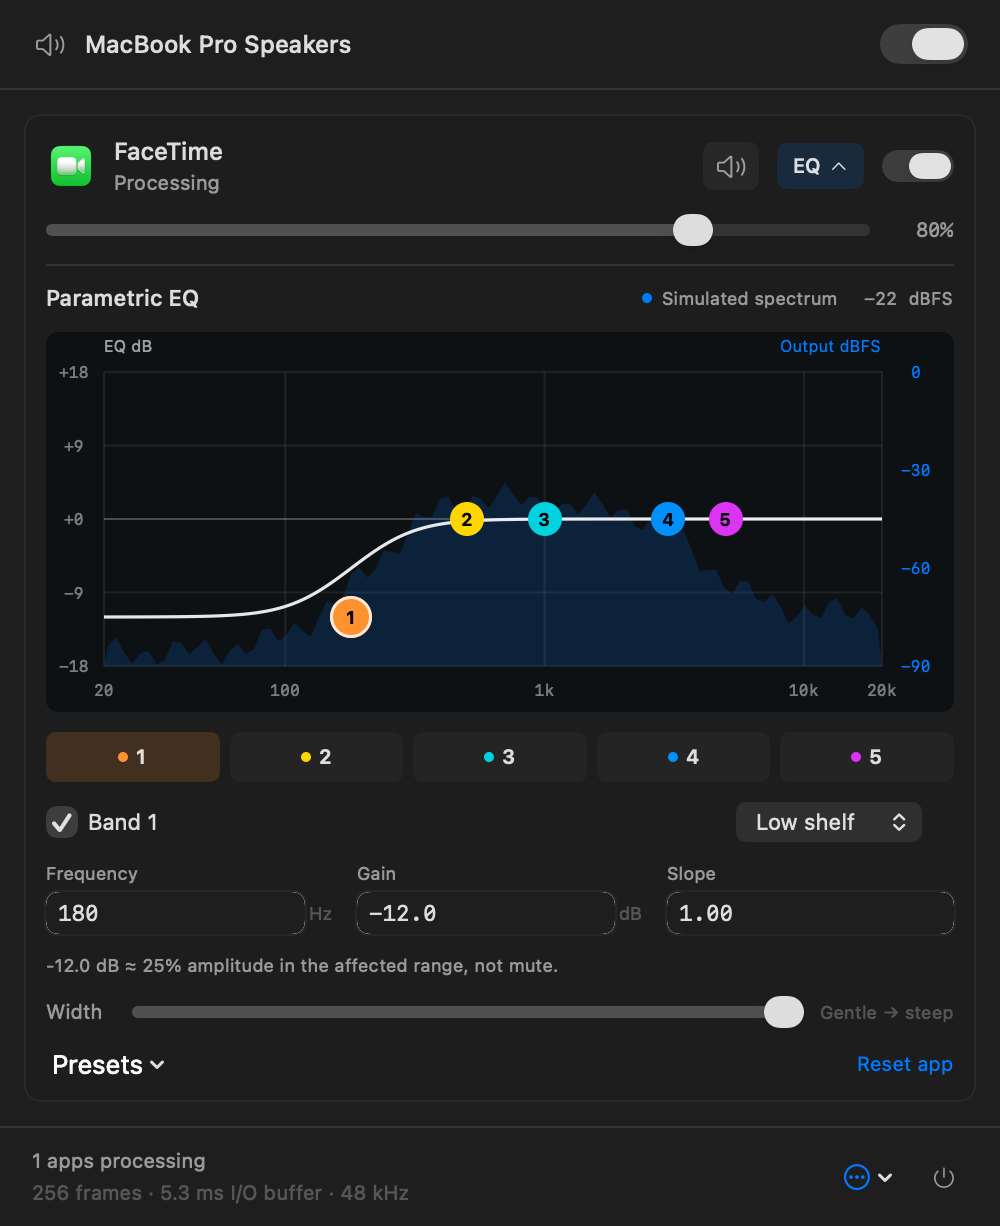
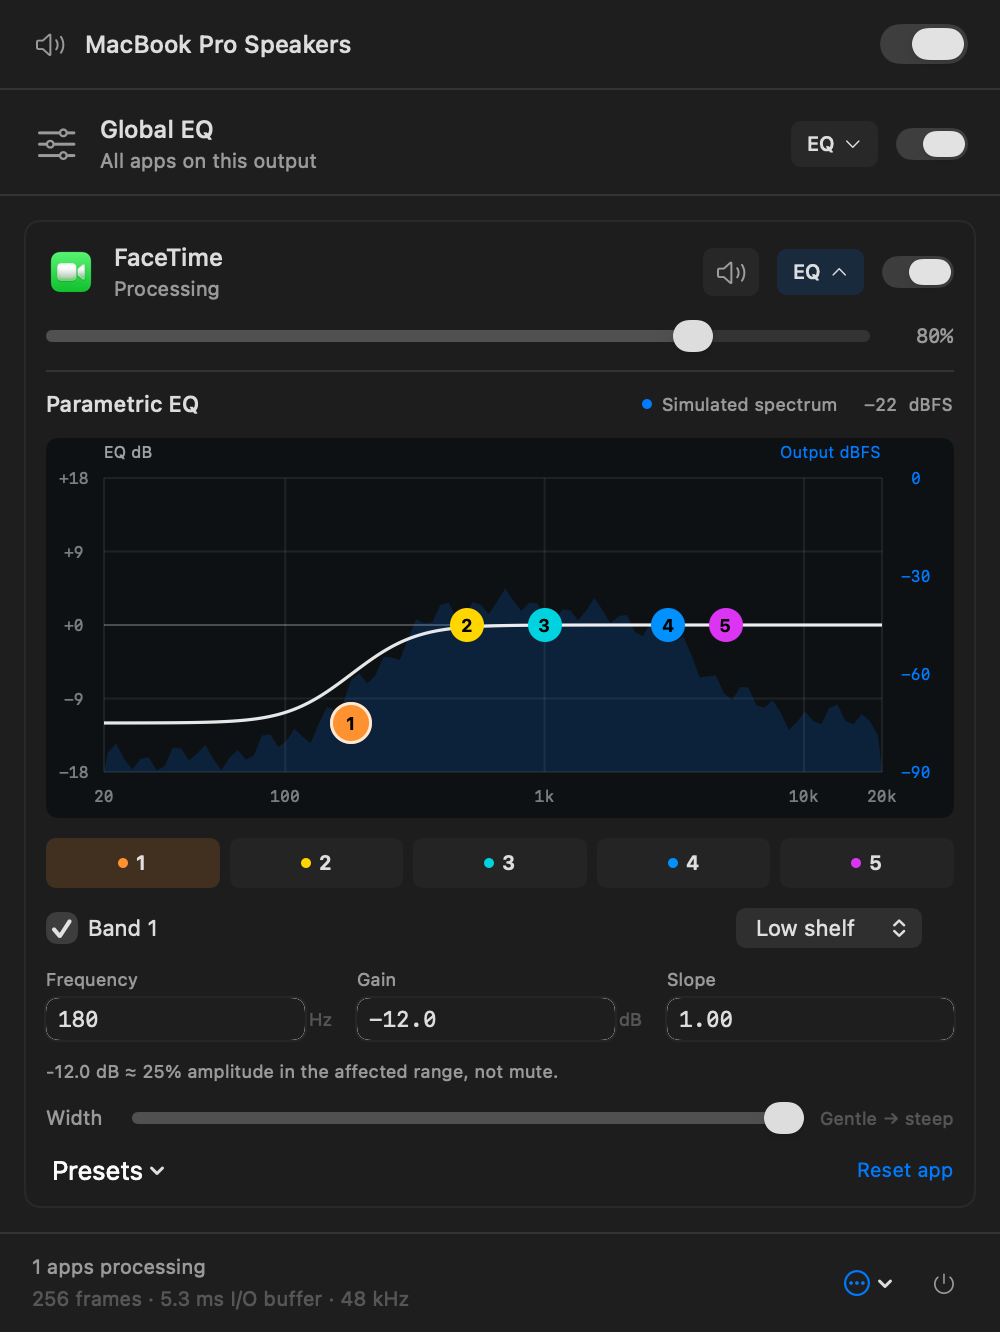
Keep global EQ controls visible and animate editor transitions

diff --git a/AppMixer/App/Sources/MixerView.swift b/AppMixer/App/Sources/MixerView.swift
@@ -5,6 +5,7 @@ import SwiftUI
 
 struct MixerView: View {
     @ObservedObject var model: MixerModel
+    @Environment(\.accessibilityReduceMotion) private var reduceMotion
     @State private var globalBand = 0
     @State private var measured: [String: CGFloat] = [:]
     private var isAppEQExpanded: Bool {
@@ -43,10 +44,8 @@ struct MixerView: View {
                     }.foregroundStyle(.orange).padding(12).frame(maxWidth: .infinity, alignment: .leading).background(
                         .orange.opacity(0.08))
                 }
-                if !isAppEQExpanded {
-                    globalSection
-                    Divider()
-                }
+                globalSection
+                Divider()
             }.trackHeight("header")
             ScrollView {
                 VStack(spacing: 8) {
@@ -96,6 +95,8 @@ struct MixerView: View {
             }.trackHeight("footer")
         }.frame(width: 500).fixedSize(horizontal: false, vertical: true).tint(.accentColor)
             .background(Color(nsColor: .windowBackgroundColor))
+            .animation(reduceMotion ? nil : .easeInOut(duration: 0.22), value: model.selectedEQ)
+            .animation(reduceMotion ? nil : .easeInOut(duration: 0.22), value: isAppEQExpanded)
             .onPreferenceChange(PanelHeights.self) { if measured != $0 { measured = $0 } }
     }
     private var globalSection: some View {
@@ -115,7 +116,8 @@ struct MixerView: View {
                 } label: {
                     HStack(spacing: 4) {
                         Text("EQ")
-                        Image(systemName: selected ? "chevron.up" : "chevron.down").font(.system(size: 8))
+                        Image(systemName: "chevron.down").font(.system(size: 8))
+                            .rotationEffect(.degrees(selected ? 180 : 0))
                     }.font(.system(size: 10, weight: .medium)).padding(.horizontal, 8).padding(.vertical, 5)
                         .background(
                             selected ? Color.accentColor.opacity(0.14) : Color.secondary.opacity(0.08),
@@ -131,15 +133,20 @@ struct MixerView: View {
                 ).toggleStyle(.switch).controlSize(.mini).labelsHidden()
                     .help("Bypass Global EQ while keeping each app's settings.")
             }.padding(.horizontal, 16).padding(.top, 12)
-            ParametricEQView(
-                model: model, appID: MixerModel.globalEQID, compact: true,
-                overviewHandles: selected, selection: $globalBand)
+            if !isAppEQExpanded {
+                ParametricEQView(
+                    model: model, appID: MixerModel.globalEQID, compact: true,
+                    overviewHandles: selected, selection: $globalBand
+                )
+                .transition(.opacity)
+            }
             if selected {
                 ParametricEQView(
                     model: model, appID: MixerModel.globalEQID,
                     controlsOnly: true, selection: $globalBand
                 )
                 .padding(.horizontal, 16).padding(.top, 4)
+                .transition(.opacity)
             }
         }.padding(.bottom, 10)
     }
@@ -179,7 +186,8 @@ struct MixerView: View {
                 } label: {
                     HStack(spacing: 4) {
                         Text("EQ")
-                        Image(systemName: selected ? "chevron.up" : "chevron.down").font(.system(size: 8))
+                        Image(systemName: "chevron.down").font(.system(size: 8))
+                            .rotationEffect(.degrees(selected ? 180 : 0))
                     }
                     .font(.system(size: 10, weight: .medium)).padding(.horizontal, 8).padding(.vertical, 5)
                     .background(
@@ -208,8 +216,10 @@ struct MixerView: View {
             if selected {
                 Divider()
                 ParametricEQView(model: model, appID: app.id)
+                    .transition(.opacity)
             } else {
                 activityMeter(app)
+                    .transition(.opacity)
             }
         }.padding(11).background(
             Color(nsColor: .controlBackgroundColor).opacity(0.65), in: RoundedRectangle(cornerRadius: 8)

diff --git a/docs/DEVELOPMENT.md b/docs/DEVELOPMENT.md
@@ -29,7 +29,7 @@ Permission is first requested when processing or live spectrum needs an app audi
 - Mono/stereo Float32 output devices with a single output stream are supported. Multichannel/multistream devices are rejected explicitly. This version processes the **current system output**; apps explicitly routed to a different output should be set to the system output first.
 - EQ: five configurable bands, 20 Hz–20 kHz (limited to 45% of sample rate), ±18 dB. Bell, low/high shelf, and 12 dB/octave low/high cut filters. Bell/cut Q spans 0.1–10; shelf slope spans 0.1–1. Each band can be bypassed. Boosts raise their selected frequencies without fixed full-band attenuation. Stereo-linked sample-peak protection reduces gain only when output would exceed full scale, then releases over 50 ms; it adds no lookahead or playback buffering. The live “Limiting” indicator shows reduction. Lower app volume when more headroom is needed. This is sample-peak protection, not an oversampled true-peak limiter. Volume is 0–100%.
 - Drag numbered graph handles to change frequency/gain. Click a band, enter exact frequency/gain/Q values, or use the width slider. White is the filter response (EQ dB, before app volume and peak protection); a dashed line indicates a preview while bypassed. The system accent color fills the live processed-output spectrum (−90…0 dBFS). Double-click a numbered handle to restore that band’s defaults.
-- Global EQ spans the popup width with its expanded controls attached beneath the graph, above the scrolling app list. Its section hides while an app's EQ is expanded and returns when that editor closes; global processing stays active. The popup fits its content up to 1,000 points or the available screen height; search is omitted to leave more room for apps. Its response line is subdued. Collapsed app rows show live output-peak meters (−60…0 dBFS), after volume, mute, and both EQs. Global bypass releases the taps, so meters show unavailable rather than fabricated activity.
+- Global EQ spans the popup width with its expanded controls attached beneath the graph, above the scrolling app list. Only its visualizer collapses while an app's EQ is expanded; the global header, bypass switch, and EQ button remain available. The visualizer returns when the app editor closes, and global processing stays active throughout. EQ disclosures use short eased fades and rotating chevrons, disabled by Reduce Motion. The popup fits its content up to 1,000 points or the available screen height; search is omitted to leave more room for apps. Its response line is subdued. Collapsed app rows show live output-peak meters (−60…0 dBFS), after volume, mute, and both EQs. Global bypass releases the taps, so meters show unavailable rather than fabricated activity.
 - The minimum band gain is −18 dB, not silence: it leaves about 13% amplitude in the affected range. A logarithmic spectrum still shows that remaining energy; the controls display this amplitude relationship when cutting.
 - The optional 16,384-sample Hann-window spectrum uses Accelerate off the audio thread at ~15 fps. Atomic snapshots never delay playback. At 48 kHz the analysis window covers about 341 ms of recent sound; this affects visual settling, not playback latency. Frequency bins use interpolated boundaries, and there is no extra peak hold to conceal EQ cuts or mute. Both the EQ-gain (left) and output-dBFS (right) scales are labeled; the frequency axis is logarithmic. Stereo powers are combined without phase cancellation. While the popup is open and the main mixer is enabled, playing apps acquire neutral routes as needed for analysis, even with flat EQ. Closing it releases analysis-only routes. The Global EQ graph overlays up to six app spectra with matching labels. Each trace uses a cached dominant icon hue keyed by app identity, or a deterministic fallback for monochrome/missing icons, so playback and list changes do not reassign colors; its filled envelope is the strongest app in each frequency bin, not a phase-aligned measurement of the final mixed output. Per-app spectra include both app and global processing. Global bypass always releases all routes.
 - Chrome/Electron helper clients resolve to their outer application’s name, icon, and bundle ID. Legacy helper-key settings migrate to that app; existing parent settings take precedence.

diff --git a/CHANGELOG.md b/CHANGELOG.md
@@ -2,7 +2,7 @@
 
 ## Unreleased
 
-- Hide the global EQ section while an app's EQ is expanded, restoring it when that editor closes without changing global processing.
+- Collapse only the global visualizer while an app's EQ is expanded, keeping its header, bypass, and EQ button available. Animate EQ disclosures with short fades and rotating chevrons, respecting Reduce Motion.
 - Show the master switch without a visible label, default it to on, and remember the user's on/off choice across launches.
 - Keep global spectrum colors stable per app and derive their hue from each app's icon, with a deterministic fallback for missing or monochrome icons.
 - Increase the popup height limit from 720 to 1,000 points, capped to the available screen height, to give scrolling app controls more room.
